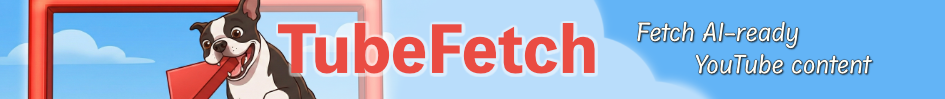
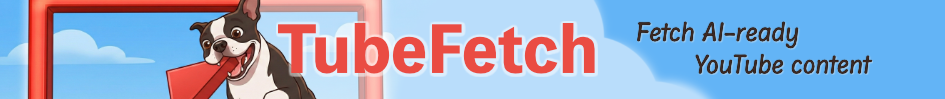
v0.9.1 Fix broken README header image (PyPI)

Changed region(s): [[0.6751, 0.2121, 0.8593, 0.5152], [0.7365, 0.5455, 0.9513, 0.7576]]

diff --git a/docs/specs/stories.md b/docs/specs/stories.md
@@ -942,6 +942,27 @@ tubefetch media dQw4w9WgXcQ
 - Specialized commands still available when needed
 - Breaking change: `all` and `fetch` commands removed
 
+### Story K.k: v0.9.1 Fix PyPI README Header Image [Done]
+
+Fix broken header image on PyPI package page by using absolute GitHub URL.
+
+**Issue:**
+- Header image broken on https://pypi.org/project/tubefetch/
+- README used relative path: `docs/site/images/tubefetch_header_readme.png`
+- PyPI doesn't have access to repository file structure
+
+**Implemented changes:**
+- [x] Update `README.md` header image to use absolute GitHub URL:
+  - [x] Changed from `docs/site/images/tubefetch_header_readme.png`
+  - [x] Changed to `https://raw.githubusercontent.com/pointmatic/tubefetch/main/docs/site/images/tubefetch_header_readme.png`
+- [x] Bump version to `0.9.1` in `pyproject.toml`
+- [x] Verify: Image displays correctly on both GitHub and PyPI
+
+**Rationale:**
+- External-facing bug affecting package presentation on PyPI
+- Absolute URLs work on both GitHub and PyPI
+- Improves first impression for potential users browsing PyPI
+
 ---
 
 ## Phase L: Code Quality & Documentation

diff --git a/README.md b/README.md
@@ -1,4 +1,4 @@
-![tubefetch](docs/site/images/tubefetch_header_readme.png)
+![tubefetch](https://raw.githubusercontent.com/pointmatic/tubefetch/main/docs/site/images/tubefetch_header_readme.png)
 
 # tubefetch
 
